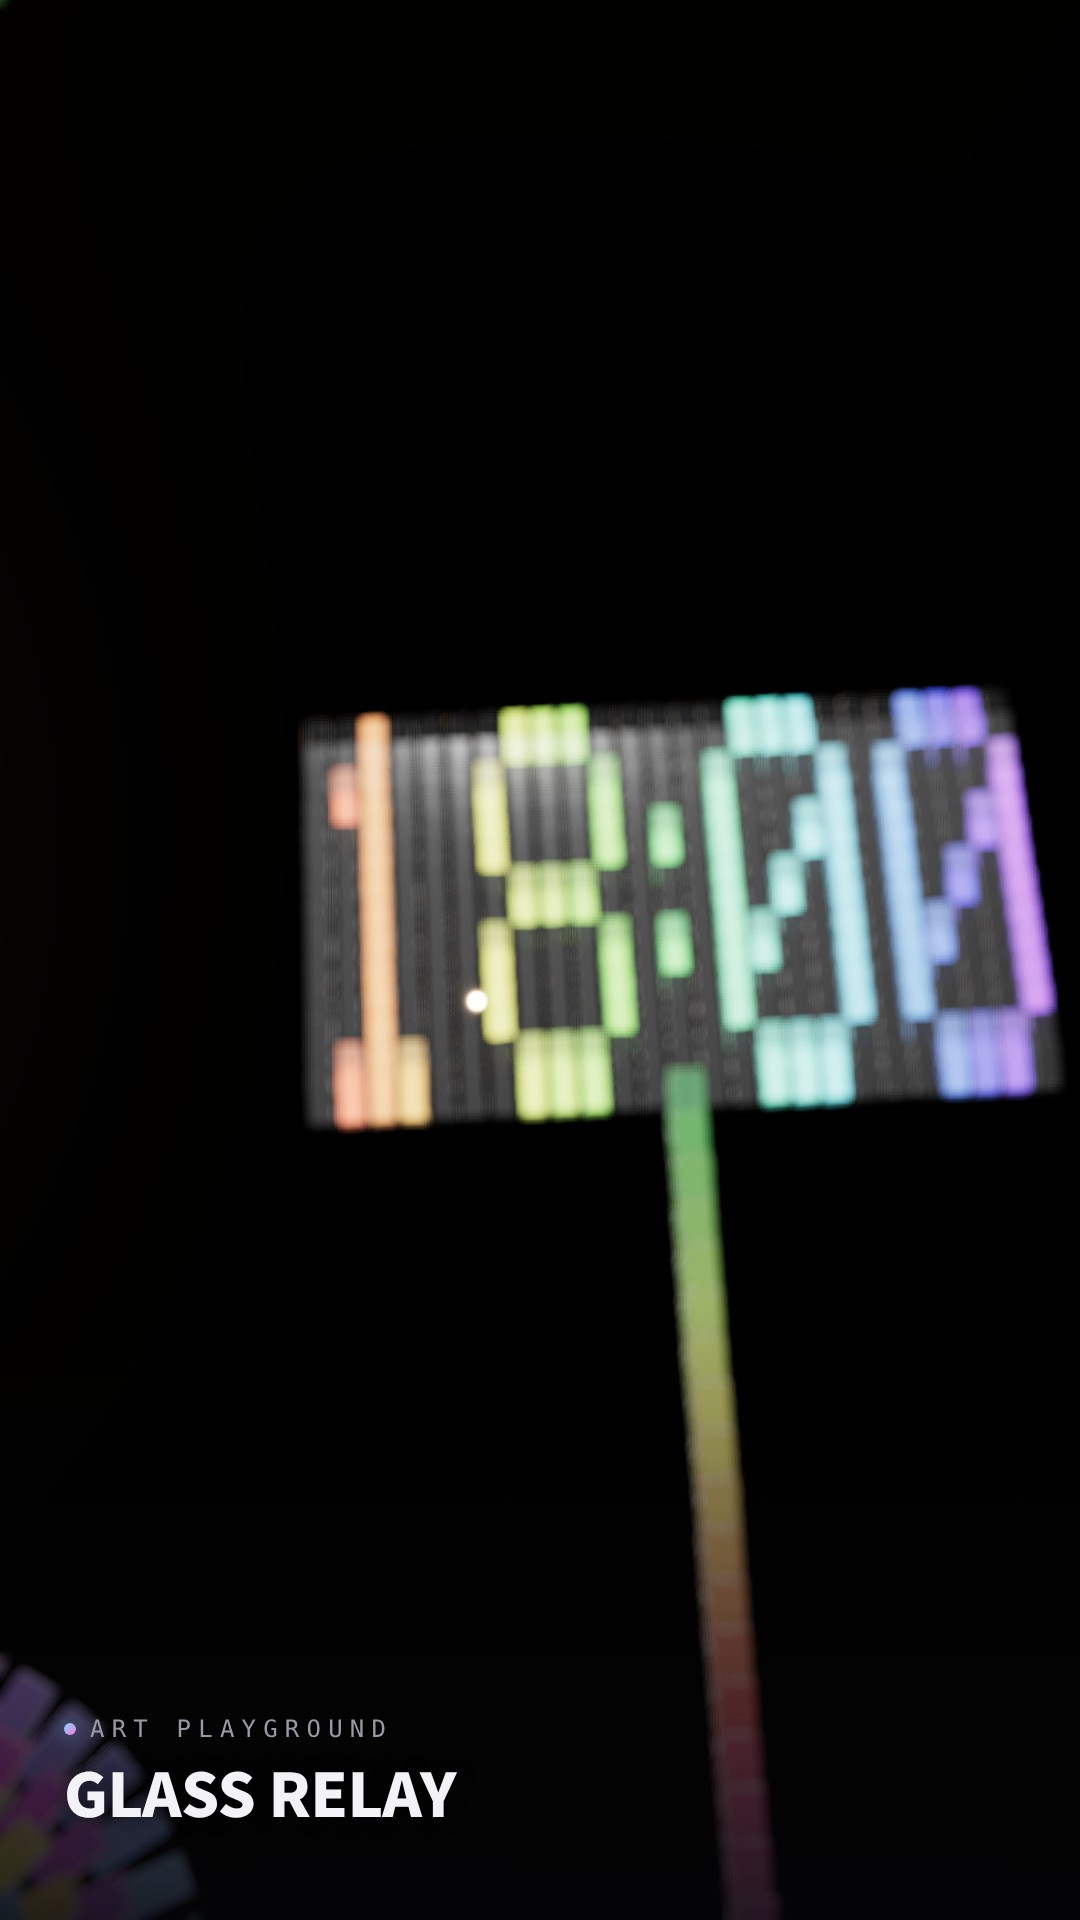
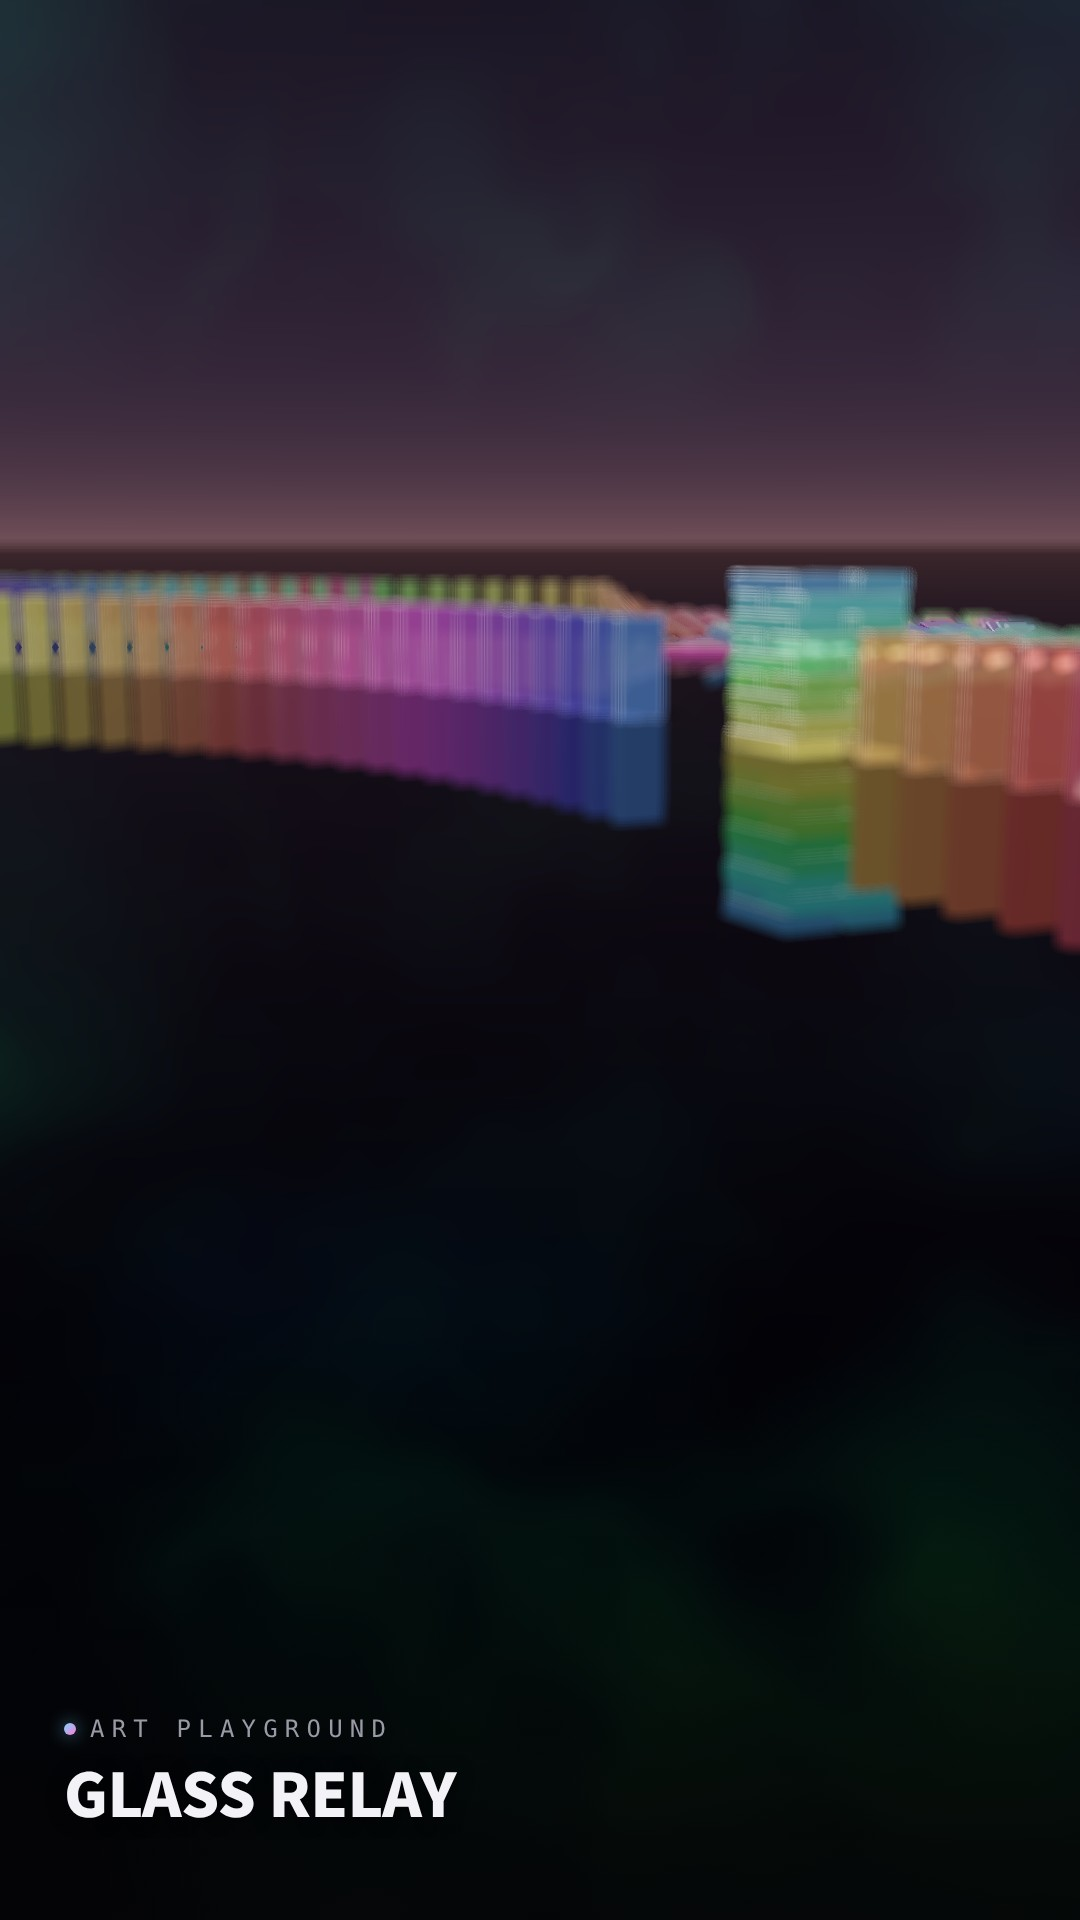
GLASS RELAY: replace background bokeh balls with a dusk sky (iridescent drifting haze, mirrored)
Claude-Session: https://claude.ai/code/session_019C65K3qrCMZ4pgHS5PGTcu

diff --git a/art-v127-glass-relay.html b/art-v127-glass-relay.html
@@ -30,6 +30,8 @@
        ・ドミノは512枚ずつの区画で描き、画面に入らない区画は描かず、遠い区画は軽い形にする。次の周のコースは、走っている間に間をあけて少しずつ組む。
        ・周の終わり: 時刻が出て巻き戻しが始まると、カメラは高く弧を描いて次の周の入り口へ(巻き戻る1周を上から見せる)。
        ・10分ごと・正時の大仕掛けは、5分ごとに届く時刻が :X0 / :00 のときの「真上近くまで引く画」と、正時の虹色。毎分の色テーマ・形と向きは今まで通り。
+     2026/11/26 夜 背景の玉ボケをやめて空に(「背景の玉みたいなのを変えて欲しいな、美しくね」): 地平線がうっすら明るく上ほど深い色、ゆっくり流れる虹色のもや、
+       黒い鏡には暗く映り込む。もやの色はその分の色テーマの色相へゆっくり寄る。霧の色も地平線の色に合わせた。
      操作: なぞる=見回す(離すと4秒で戻る) / ✦=いまの時刻から別のコースに組み直す(次に時刻のフィールドへ届くまでの分)
      テスト用: ?cyc=NNN(5分の周の何秒目から、その周を最初から走っていたことにして始める) ?fast=1(時間が3倍で進む) ?debug=1(コマ数・画質の段・しかけ名・カメラ) ?sec=NN(その秒から、1分ぶんのコースで始める) ?seed=N ?tier=0〜4(画質の段を固定)
        ?debug=1&pause=1(時間を止める) ?debug=1&cam=top(真上から全体) ?debug=1&special=hour|ten&theme=0〜6&shape=0〜4&mir=1|-1&reveal=hour|ten(大仕掛け・色・形の確認)
@@ -875,12 +877,42 @@ shadowFloor.rotation.x=-Math.PI/2;shadowFloor.position.y=0.002;shadowFloor.recei
   const sheen=new THREE.Mesh(g,m);sheen.rotation.x=-Math.PI/2;sheen.position.y=0.001;sheen.renderOrder=2;scene.add(sheen);
   var sheenU=m.uniforms;
 }
-// 遠くの暖かい玉ボケ(静止画と同じ)
-{let sd=3;const r=()=>{sd=(sd*16807)%2147483647;return sd/2147483647;};
- const g=new THREE.SphereGeometry(1,10,8);
- for(let i=0;i<110;i++){const a=r()*Math.PI*2,R=78+r()*30;const s=0.25+r()*0.35;
-  const m=new THREE.Mesh(g,new THREE.MeshBasicMaterial({color:new THREE.Color().setHSL(0.07+r()*0.06,0.9,0.55+r()*0.25),fog:false}));
-  m.scale.setScalar(s*2.2);m.position.set(Math.cos(a)*R,3+r()*14,Math.sin(a)*R);scene.add(m);}}
+// 背景の空(2026/11/26 おっちゃん「背景の玉みたいなのを変えて欲しいな、美しくね」→ 玉ボケをやめて、夜明け前のような空に)
+// 地平線がうっすら明るく、上ほど深い色。ゆっくり流れる虹色のもや。下半分は黒い鏡に映った空(暗め)。
+// 色はその分の色テーマの色相へ、ゆっくり寄っていく。カメラについて動く大きな球の内側に描く。
+const HORIZON=new THREE.Color().setRGB(0.032,0.022,0.036,THREE.LinearSRGBColorSpace);
+scene.fog.color.copy(HORIZON);scene.background.copy(HORIZON);
+const skyU={uT:{value:0},uHue:{value:0.6},uAmt:{value:1}};
+const sky=new THREE.Mesh(new THREE.SphereGeometry(190,48,24),new THREE.ShaderMaterial({
+  side:THREE.BackSide,depthWrite:false,fog:false,uniforms:skyU,
+  vertexShader:'varying vec3 vD;void main(){vD=position;vec4 p=projectionMatrix*modelViewMatrix*vec4(position,1.);gl_Position=p.xyww;}',
+  fragmentShader:`uniform float uT;uniform float uHue;uniform float uAmt;varying vec3 vD;
+  float h3(vec3 p){p=fract(p*0.3183099+0.1);p*=17.0;return fract(p.x*p.y*p.z*(p.x+p.y+p.z));}
+  float n3(vec3 x){vec3 i=floor(x),f=fract(x);f=f*f*(3.0-2.0*f);
+    return mix(mix(mix(h3(i),h3(i+vec3(1,0,0)),f.x),mix(h3(i+vec3(0,1,0)),h3(i+vec3(1,1,0)),f.x),f.y),
+               mix(mix(h3(i+vec3(0,0,1)),h3(i+vec3(1,0,1)),f.x),mix(h3(i+vec3(0,1,1)),h3(i+vec3(1,1,1)),f.x),f.y),f.z);}
+  float fbm(vec3 p){float a=0.5,s=0.0;for(int i=0;i<4;i++){s+=a*n3(p);p=p*2.03+vec3(1.7,9.2,3.1);a*=0.5;}return s;}
+  void main(){
+    vec3 d=normalize(vD);float ay=abs(d.y);
+    vec3 q=vec3(d.x,ay,d.z);
+    vec3 hor=vec3(0.032,0.022,0.036), zen=vec3(0.004,0.006,0.016);
+    vec3 col=mix(hor,zen,smoothstep(0.0,0.55,ay));
+    col+=vec3(0.30,0.15,0.09)*exp(-ay*30.0)*0.32;            // 地平線のうすい光
+    col+=vec3(0.10,0.07,0.14)*exp(-ay*7.0)*0.25;
+    // 流れる虹色のもや(地平線の少し上に帯のように)
+    vec3 w=q*2.1+vec3(uT*0.012,0.0,uT*0.007);
+    float n=fbm(w+fbm(w*1.7)*1.3);
+    float band=smoothstep(0.03,0.16,ay)*(1.0-smoothstep(0.32,0.72,ay));
+    float m=smoothstep(0.42,0.82,n)*band;
+    vec3 iri=0.5+0.5*cos(6.28318*(uHue+n*0.55+d.x*0.08+vec3(0.0,0.33,0.67)));
+    col+=iri*m*0.2*uAmt;
+    float veil=smoothstep(0.30,0.75,fbm(q*5.0+vec3(-uT*0.02,0.0,uT*0.015)))*band;   // 細かい筋
+    col+=iri*veil*0.035*uAmt;
+    if(d.y<0.0)col*=0.42;   // 下半分は黒い鏡に映った空
+    gl_FragColor=vec4(col,1.0);
+  }`}));
+sky.renderOrder=-10;sky.frustumCulled=false;scene.add(sky);
+let skyHue=0.6;
 
 // ---- コースの飾り(台・レール・輪の帯・台座・ビー玉)を作る
 function buildDecor(C){
@@ -1269,6 +1301,8 @@ function updateCamera(dt,vt){
   key.target.position.copy(_v2);key.position.copy(_v2).addScaledVector(KEYDIR,30);
   glint.position.set(_v.x-3,4,_v.z+2);
   sheenU.uCam.value.copy(camera.position);
+  sky.position.copy(camera.position);skyU.uT.value=vt%10000;
+  {const T=THEMES[themeOf(M)].f(0,(M%60)/60);let dh=T[0]-skyHue;dh-=Math.round(dh);skyHue+=dh*(1-Math.exp(-dt*0.25));skyU.uHue.value=skyHue;}
 }
 
 // ============================================================

diff --git a/CHANGELOG.md b/CHANGELOG.md
@@ -1,3 +1,4 @@
+- 2026-11-26 クロちゃん: GLASS RELAY(CURRENT)の背景の玉ボケ(遠くの暖かい玉110個)をやめて、空に替えた(おっちゃん「背景の玉みたいなのを変えて欲しいな、美しくね」)。カメラについて動く大きな球の内側にシェーダーで描く: 地平線がうっすら桃色に明るく、上ほど深い色。地平線の少し上をゆっくり流れる虹色のもや(fbmのゆがみ)と細い筋。下半分は黒い鏡に映った空として暗め(0.42倍)。もやの色相は、その分の色テーマの色へゆっくり寄る。霧と背景の色も地平線の色に合わせた(遠くのドミノが空に溶ける)。ぼかし(Bokeh)がかかっても形が崩れない、やわらかい模様だけにした(点の星は、ぼけて玉ボケに戻るので入れていない)。ポスター・OGP・リールを作り直し。確認(ヘッドレスChromium): 縦・横・数字のフィールド・時刻のフィールドの場面で目視、構文チェックOK、--check OK。(art-v127-glass-relay.html, posters/, og/, reel/, CHANGELOG.md)
 - 2026-11-26 クロちゃん: GLASS RELAY(CURRENT)を **5分で1周** に(おっちゃん「1分1周じゃなくて5分1周は無理かな？1分カウントも欲しいから何か別のアクションで表現」)。コースは5分かけて時刻のフィールドのまわりを外から内へ回る(1周 約3800〜4200枚・しかけ40〜50個、1分ごとの区間に8〜10個。周の間隔を約13に広げた)。波が時刻のフィールドに届いて全体が倒れ HH:MM が出るのは5分ごと。**1分の合図(別のアクション)**: ①毎分0秒ちょうどに波がコースの途中の「分の数字のフィールド」(0.6倍のドミノ11×14枚、5×7の数字2けた)に届き、倒れると分の数字(例「51」)が光る。カメラは真上近くから、ぼかしを弱めて見せる ②奥の時刻のフィールドは、分の一の位の列(20〜24列)だけが57秒ごろ起き上がり、0秒に左から斜めに倒れ直す(5分ごとの全体の波は手前から奥)。1分ごとの区間の終わりがちょうど0秒になるよう、区間ごとに数字のフィールドを置く位置を前後に動かして合わせ、区間ごとに自然時間と時刻の対応(伸び縮み)を持つ(30回の試しで全区間0.85〜1.17倍・重なり0)。**描き方**: ドミノを512枚ずつの区画に分け(本体・鏡の写し・影の写しの3つで1区画)、区画の境界球で画面外の区画は描かない(巻き戻し中は全部描く)、遠い区画(16より遠い)は角の丸みのない軽い形。CAPを1500→6500。**組み方**: 次の周は、いまの周が走り出して25秒後から、30msずつ間をあけて少しずつ組む(1周0.3〜2秒)。間に合わなければ届いた後に組む。**周の終わり**: 時刻が出て巻き戻しが始まると、カメラは高く弧を描いて次の周の入り口へ(巻き戻る1周を上から見せる)。次の周は4.4秒から(大仕掛けの時刻なら7秒から)。10分ごと・正時の大仕掛けは「5分ごとに届く時刻が :X0 / :00 のときの引きの画」と正時の虹色だけにした(5分1周なので、1周でしかけの種類はほぼ全部出るため、最後の分にしかけを詰めるのはやめた)。複数のビー玉に対応。直した不具合: 絵のフィールドの絵が左右反対だった(進む向きの後ろから見て、ローカル+xは画面の左)。テスト用 `?cyc=NNN`(周の何秒目から、その周を最初から走っていたことにして始める)。`index.html` の `META` の初回ヒントを「5分で1周するドミノ。毎分0秒に分の数字が倒れて出る」に。ポスター・OGP・リールを作り直し(途中で `--only glass-relay --all` が全77枚を作り直してしまったので、GLASS RELAY以外のポスターと manifest は元に戻した)。確認(ヘッドレスChromium): 分の数字のフィールド「51」・一の位の倒れ直し「17:50→17:51」・5分ごとの到着「17:55」→巻き戻し→次の周の追いかけを画で確認、?fast=1で周の切り替え+✦を通してエラーなし、構文チェックOK、--check OK。**iPhone実機の滑らかさは未確認**(ドミノが約4倍に増えたので、重ければ画質の段が下がる)。(art-v127-glass-relay.html, index.html, posters/, og/, reel/, CHANGELOG.md)
 - 2026-11-26 クロちゃん: GLASS RELAY(CURRENT、`art-v127-glass-relay.html`)をヌルヌル化・アクション増量(おっちゃん「もっとヌルヌルに、アクション増やして、ローディング長くてもいい」)。**アクション**: しかけを12→17種類に(放射の輪=まん中に届くと6重の輪が外へ倒れる/絵のフィールド=0.7倍のドミノ9×9が倒れるとハート・星・ねこ・音符・花・矢印・笑顔のどれかがこい色で光る/連なる塔=3本の塔が順にくずれて次を倒す/すべり台=台の端の1枚が坂を寝たまま滑りおりて下の列を起こす/階段くだり)。ふだん毎分8〜10個(前は6〜8)、10分ごと12個、正時15個(13種+階段と下ろし方)。階段で上った高さの下ろし方は段差落ち/ビー玉の坂/階段くだり/すべり台の4通り。1分に収まることを確認(時間の伸び縮み0.83〜1.10倍、1コース数ms)。**ヌルヌル**: カメラの通り道を0.05秒ごとに並べ直して前後0.35秒でならす(ドミノ1枚ごとのカクつき対策)。ドミノの角の丸みを3→2段、鏡の写しと影は丸みのない箱で描く(影はレイヤー1の影専用の写し。本体は影を落とさず受けない)。書き換えたドミノの範囲だけGPUへ送る(addUpdateRange)。読み込み中に、材質の組み合わせ(分光あり/なし×影あり/なし、台・レール・ビー玉・両面の黒ガラス)を全部先に準備し、40コマずつ描いて60fps(18.5ms)で回る一番きれいな段を選ぶ。動いてからは2秒の区切りで2回続けて44fpsを切ったときだけ1段下げる(前は47fps切りで最大2段)。**直した不具合**: 倒れきった姿勢を計算するとき大きな時刻(1e9)で `|0` が桁あふれし、ドミノが消えることがあった(0.7倍のドミノで確実に起き、ふつうのドミノは運よく起きにくかった)→`prof()`を直した。試作版 `prototypes/glass-relay.html` は採用時のまま(この変更は入れていない)。ポスター・OGP・リールは作り直し(読み込みが長くなったので `tools/poster-config.json` の待ちを50秒・上限170秒に)。確認(ヘッドレスChromium): 新しいしかけ5種を画で確認、?fast=1で2分+✦を通してエラーなし、構文チェックOK、gen_posters/gen_og の --check OK。**iPhone実機の滑らかさは未確認**。(art-v127-glass-relay.html, posters/, og/, reel/, tools/poster-config.json, CHANGELOG.md)
 - 2026-11-26 クロちゃん: GLASS RELAYを採用・art-v127として昇格し、CURRENTに設定、録画の対象にも追加(おっちゃん「採用でカレントへ」→「録画も」)。`prototypes/glass-relay.html`をコピーして、`ap-kit.js`と three.js の importmap をルート用に直し(importmapは `./assets/...` の形でないと読めない。最初 `assets/...` にしてポスターが真っ黒になって発覚、直した)、冒頭に昇格の注記を追加(試作版にも「昇格した」注記)。同時に両方で1点修正: 宙返りの輪の横ずれを内側へ(外側を走る追いかけカメラが輪の帯にかぶっていた)。それまでのCURRENTだったINK RINGS(v126)はLOG先頭へ(番号順どおり)、Published worksの先頭にGLASS RELAY、`META`に初回ヒント「毎分0秒、倒れきったドミノが新しい時刻になる。なぞると見回せる」、`REC_WORKS`に`art-v127-glass-relay.html`、sitemap.xmlに`/art-v127-glass-relay`を追加。`tools/poster-config.json`に`hide:#hint,#load,#dbg`・待ち24秒・上限120秒(読み込み中に物理の計算と速さの測定をするため)を追加し、ポスター(タイル+ヒーロー)・OGPカード・リール用縦型カバー(`--reel --only glass-relay`)を生成。`gen_posters.py --check`はOK 77/無し0(余りはギャラリーから外れているart-v114のポスターで、前から)。リールのカバーはたまたま「透明に1色」の色テーマの分が写った(撮るたびに色・コースが変わる)。確認(ヘッドレスChromium・390×844): ルートの`art-v127-glass-relay.html`を直接開いてコンソールエラーなし、ギャラリーから全画面で開いて録画ボタンが出ること・作品のcanvasをdrawImageで読むと中身が映ること(平均明るさ約46)を確認。ギャラリーはCURRENTがGLASS RELAY・LOG先頭がINK RINGS・`<button>`の開閉一致(85/85)。本物の録画ボタン→mp4の通し確認はしていない。**スマホ実機での重さ・録画中の重さは未確認**(作品側で読み込み時に速さを測って画質の段を決め、動いてからも重ければ段を下げる。録画で極端に重ければ`REC_WORKS`から外す)(art-v127-glass-relay.html, prototypes/glass-relay.html, index.html, posters/, og/, reel/, tools/poster-config.json, sitemap.xml, CHANGELOG.md)
